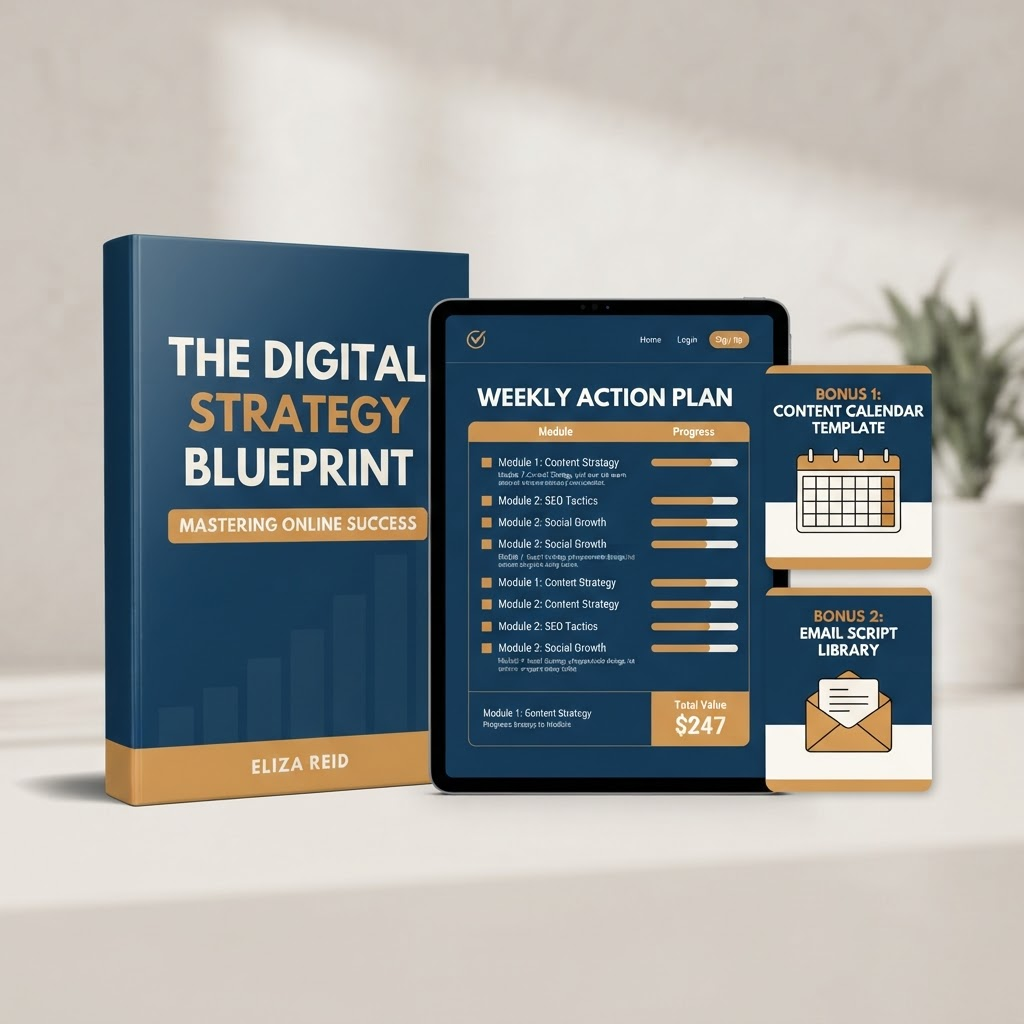
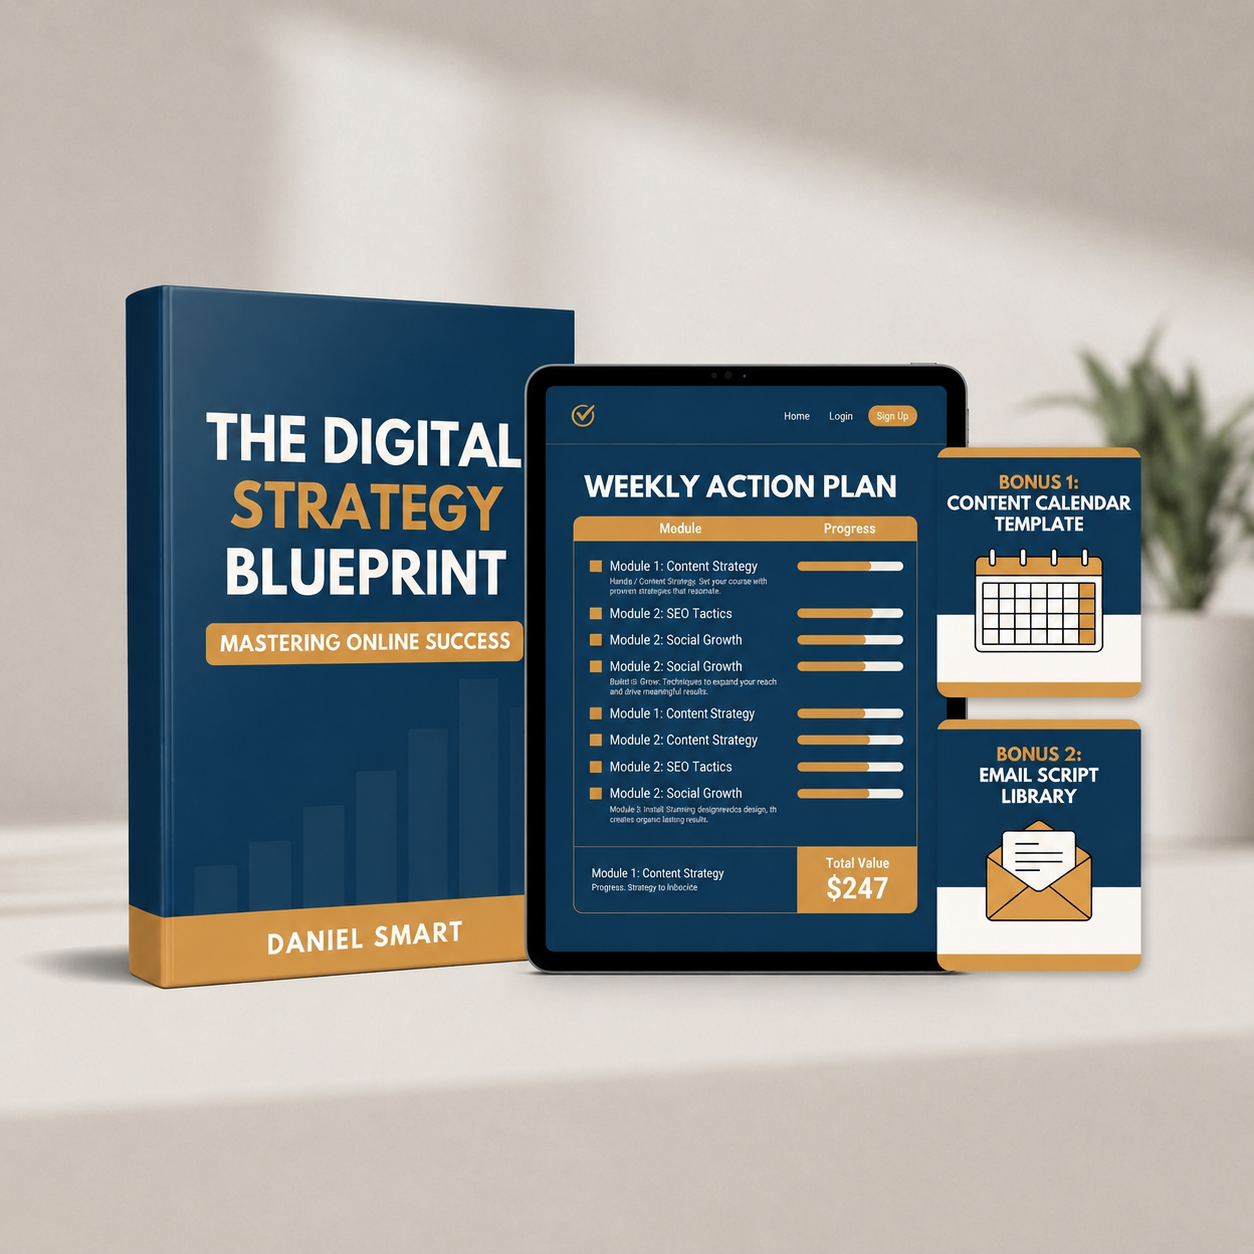
Rebrand from Martin to Daniel - Update all text references and images

diff --git a/components/sales/hero.tsx b/components/sales/hero.tsx
@@ -6,7 +6,7 @@ const chips = ['Working a 9–5', 'Building a side hustle', 'A student with an i
 const trust = [[FileText, 'Step-by-step guide'], [Bot, 'Free ChatGPT works'], [Clock3, 'Built for busy people'], [ShieldCheck, '7-day guarantee']] as const
 
 export function SiteHeader() {
-  return <header className="border-b border-border bg-background"><div className="mx-auto flex max-w-6xl items-center justify-between px-5 py-4"><a href="#top" className="font-serif text-lg font-black tracking-tight text-foreground">HUSTLE TALK <span className="text-primary">WITH MARTIN</span></a><a href="#pricing" className="text-sm font-bold text-primary hover:underline">View launch offer</a></div></header>
+  return <header className="border-b border-border bg-background"><div className="mx-auto flex max-w-6xl items-center justify-between px-5 py-4"><a href="#top" className="font-serif text-lg font-black tracking-tight text-foreground">HUSTLE TALK <span className="text-primary">WITH DANIEL</span></a><a href="#pricing" className="text-sm font-bold text-primary hover:underline">View launch offer</a></div></header>
 }
 
 export function Hero() {
@@ -20,6 +20,6 @@ export function Hero() {
       <div className="mt-8"><CtaButton placement="hero" /></div>
       <div className="mt-6 grid grid-cols-2 gap-3 sm:grid-cols-4">{trust.map(([Icon, text]) => <div key={text} className="flex items-center gap-2 text-xs font-bold text-muted-foreground"><Icon className="size-4 shrink-0 text-primary" aria-hidden="true" />{text}</div>)}</div>
     </div>
-    <div className="relative mx-auto w-full max-w-lg pb-12"><Image src="/images/hero-martin.png" alt="Martin working at his desk" width={700} height={700} priority className="aspect-[4/5] w-full rounded-3xl object-cover shadow-xl" /><Image src="/images/product-cover.png" alt="Stop Overthinking digital guide cover" width={220} height={290} priority className="absolute -bottom-2 -left-3 w-32 rotate-[-4deg] rounded-lg shadow-2xl sm:w-44" /><div className="absolute right-4 top-4 rounded-xl bg-background px-4 py-3 shadow-lg"><p className="text-xs font-bold uppercase tracking-wider text-muted-foreground">Your finish line</p><p className="font-serif text-lg font-black text-primary">Published in 7 days</p></div></div>
+    <div className="relative mx-auto w-full max-w-lg pb-12"><Image src="/images/hero-daniel.png" alt="Daniel working at his desk" width={700} height={700} priority className="aspect-[4/5] w-full rounded-3xl object-cover shadow-xl" /><Image src="/images/product-cover.png" alt="Stop Overthinking digital guide cover" width={220} height={290} priority className="absolute -bottom-2 -left-3 w-32 rotate-[-4deg] rounded-lg shadow-2xl sm:w-44" /><div className="absolute right-4 top-4 rounded-xl bg-background px-4 py-3 shadow-lg"><p className="text-xs font-bold uppercase tracking-wider text-muted-foreground">Your finish line</p><p className="font-serif text-lg font-black text-primary">Published in 7 days</p></div></div>
   </div></section>
 }

diff --git a/components/sales/offer.tsx b/components/sales/offer.tsx
@@ -16,4 +16,4 @@ export function FAQ(){return <section id="faq" className="scroll-mt-24 bg-second
 
 export function Closing(){return <section className="px-5 py-20 text-center"><div className="mx-auto max-w-3xl"><p className="text-sm font-bold uppercase tracking-widest text-primary">Imagine next week</p><h2 className="mt-3 font-serif text-3xl font-black text-balance sm:text-5xl">Seven days from now, your idea could be real, published, and ready to share.</h2><p className="mx-auto mt-6 max-w-2xl text-lg leading-relaxed text-muted-foreground">Not perfect. Not guaranteed to make you rich. But finished—and that completed first product can teach you more than another year of preparing.</p><div className="mt-8"><CtaButton placement="closing"/></div></div></section>}
 
-export function SiteFooter(){return <footer className="border-t border-border px-5 py-10 pb-24 text-center md:pb-10"><p className="font-serif font-black">Hustle Talk With Martin</p><p className="mt-2 text-sm text-muted-foreground">Practical systems for turning knowledge into finished digital products.</p><p className="mt-5 text-xs text-muted-foreground">© {new Date().getFullYear()} Hustle Talk With Martin. No specific income or overnight results are promised.</p></footer>}
+export function SiteFooter(){return <footer className="border-t border-border px-5 py-10 pb-24 text-center md:pb-10"><p className="font-serif font-black">Hustle Talk With Daniel</p><p className="mt-2 text-sm text-muted-foreground">Practical systems for turning knowledge into finished digital products.</p><p className="mt-5 text-xs text-muted-foreground">© {new Date().getFullYear()} Hustle Talk With Daniel. No specific income or overnight results are promised.</p></footer>}

diff --git a/app/layout.tsx b/app/layout.tsx
@@ -16,7 +16,7 @@ const lato = Lato({
 })
 
 export const metadata: Metadata = {
-  title: 'Stop Overthinking — The 7-Day Action System | Hustle Talk With Martin',
+  title: 'Stop Overthinking — The 7-Day Action System | Hustle Talk With Daniel',
   description:
     'Turn one idea into your first published digital product in 7 days using AI. A practical, honest execution system for Nigerian creators, workers, students and side-hustlers.',
   generator: 'v0.app',
@@ -24,7 +24,7 @@ export const metadata: Metadata = {
     title: 'Stop Overthinking — Build and Launch in 7 Days',
     description: 'A practical AI-assisted action system for turning one useful idea into your first published digital product.',
     type: 'website',
-    images: [{ url: '/images/social-share.png', width: 1200, height: 630, alt: 'Stop Overthinking by Hustle Talk With Martin' }],
+    images: [{ url: '/images/social-share.png', width: 1200, height: 630, alt: 'Stop Overthinking by Hustle Talk With Daniel' }],
   },
   twitter: {
     card: 'summary_large_image',

diff --git a/components/sales/story.tsx b/components/sales/story.tsx
@@ -60,7 +60,7 @@ export function FounderStory() {
       <h2 className="text-2xl font-black tracking-tight text-foreground sm:text-3xl">My real story</h2>
       <div className="mt-6 space-y-5 text-[1.05rem] leading-relaxed text-foreground/90">
         <p>
-          I&apos;m Martin. I was born and raised in Nigeria, and today I live in Canada. For most of my adult life
+          I&apos;m Daniel. I was born and raised in Nigeria, and today I live in Canada. For most of my adult life
           I&apos;ve worked in IT and ERP systems — the kind of work where you&apos;re always learning something new,
           always keeping up with the next tool, the next update, the next skill.
         </p>
